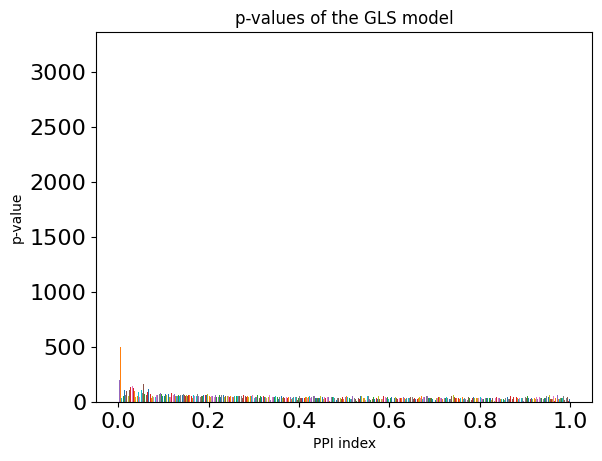
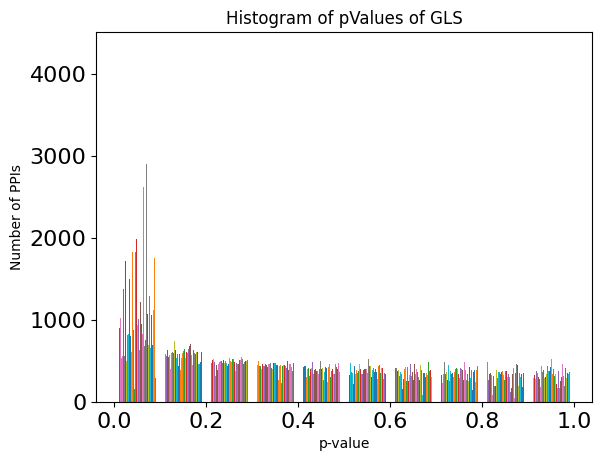
Preliminary Results

diff --git a/src/glsCorr.py b/src/glsCorr.py
@@ -73,12 +73,13 @@ if __name__ == '__main__':
     print(glsPValues)
     # Create a bar plot
     fig, ax = plt.subplots()
-    ax.hist(glsPValues, bins=100)
+    ax.hist(glsPValues)
 
     # Set axis labels and title
-    ax.set_xlabel('PPI index')
-    ax.set_ylabel('p-value')
-    ax.set_title('p-values of the GLS model')
+    ax.set_xlabel('p-value')
+    ax.set_ylabel('Number of PPIs')
+    ax.set_title('Histogram of pValues of GLS')
+    ax.set_ybound(0, 3100)
 
     # Set font size for x and y axis labels
     ax.tick_params(axis='x', labelsize=16)
